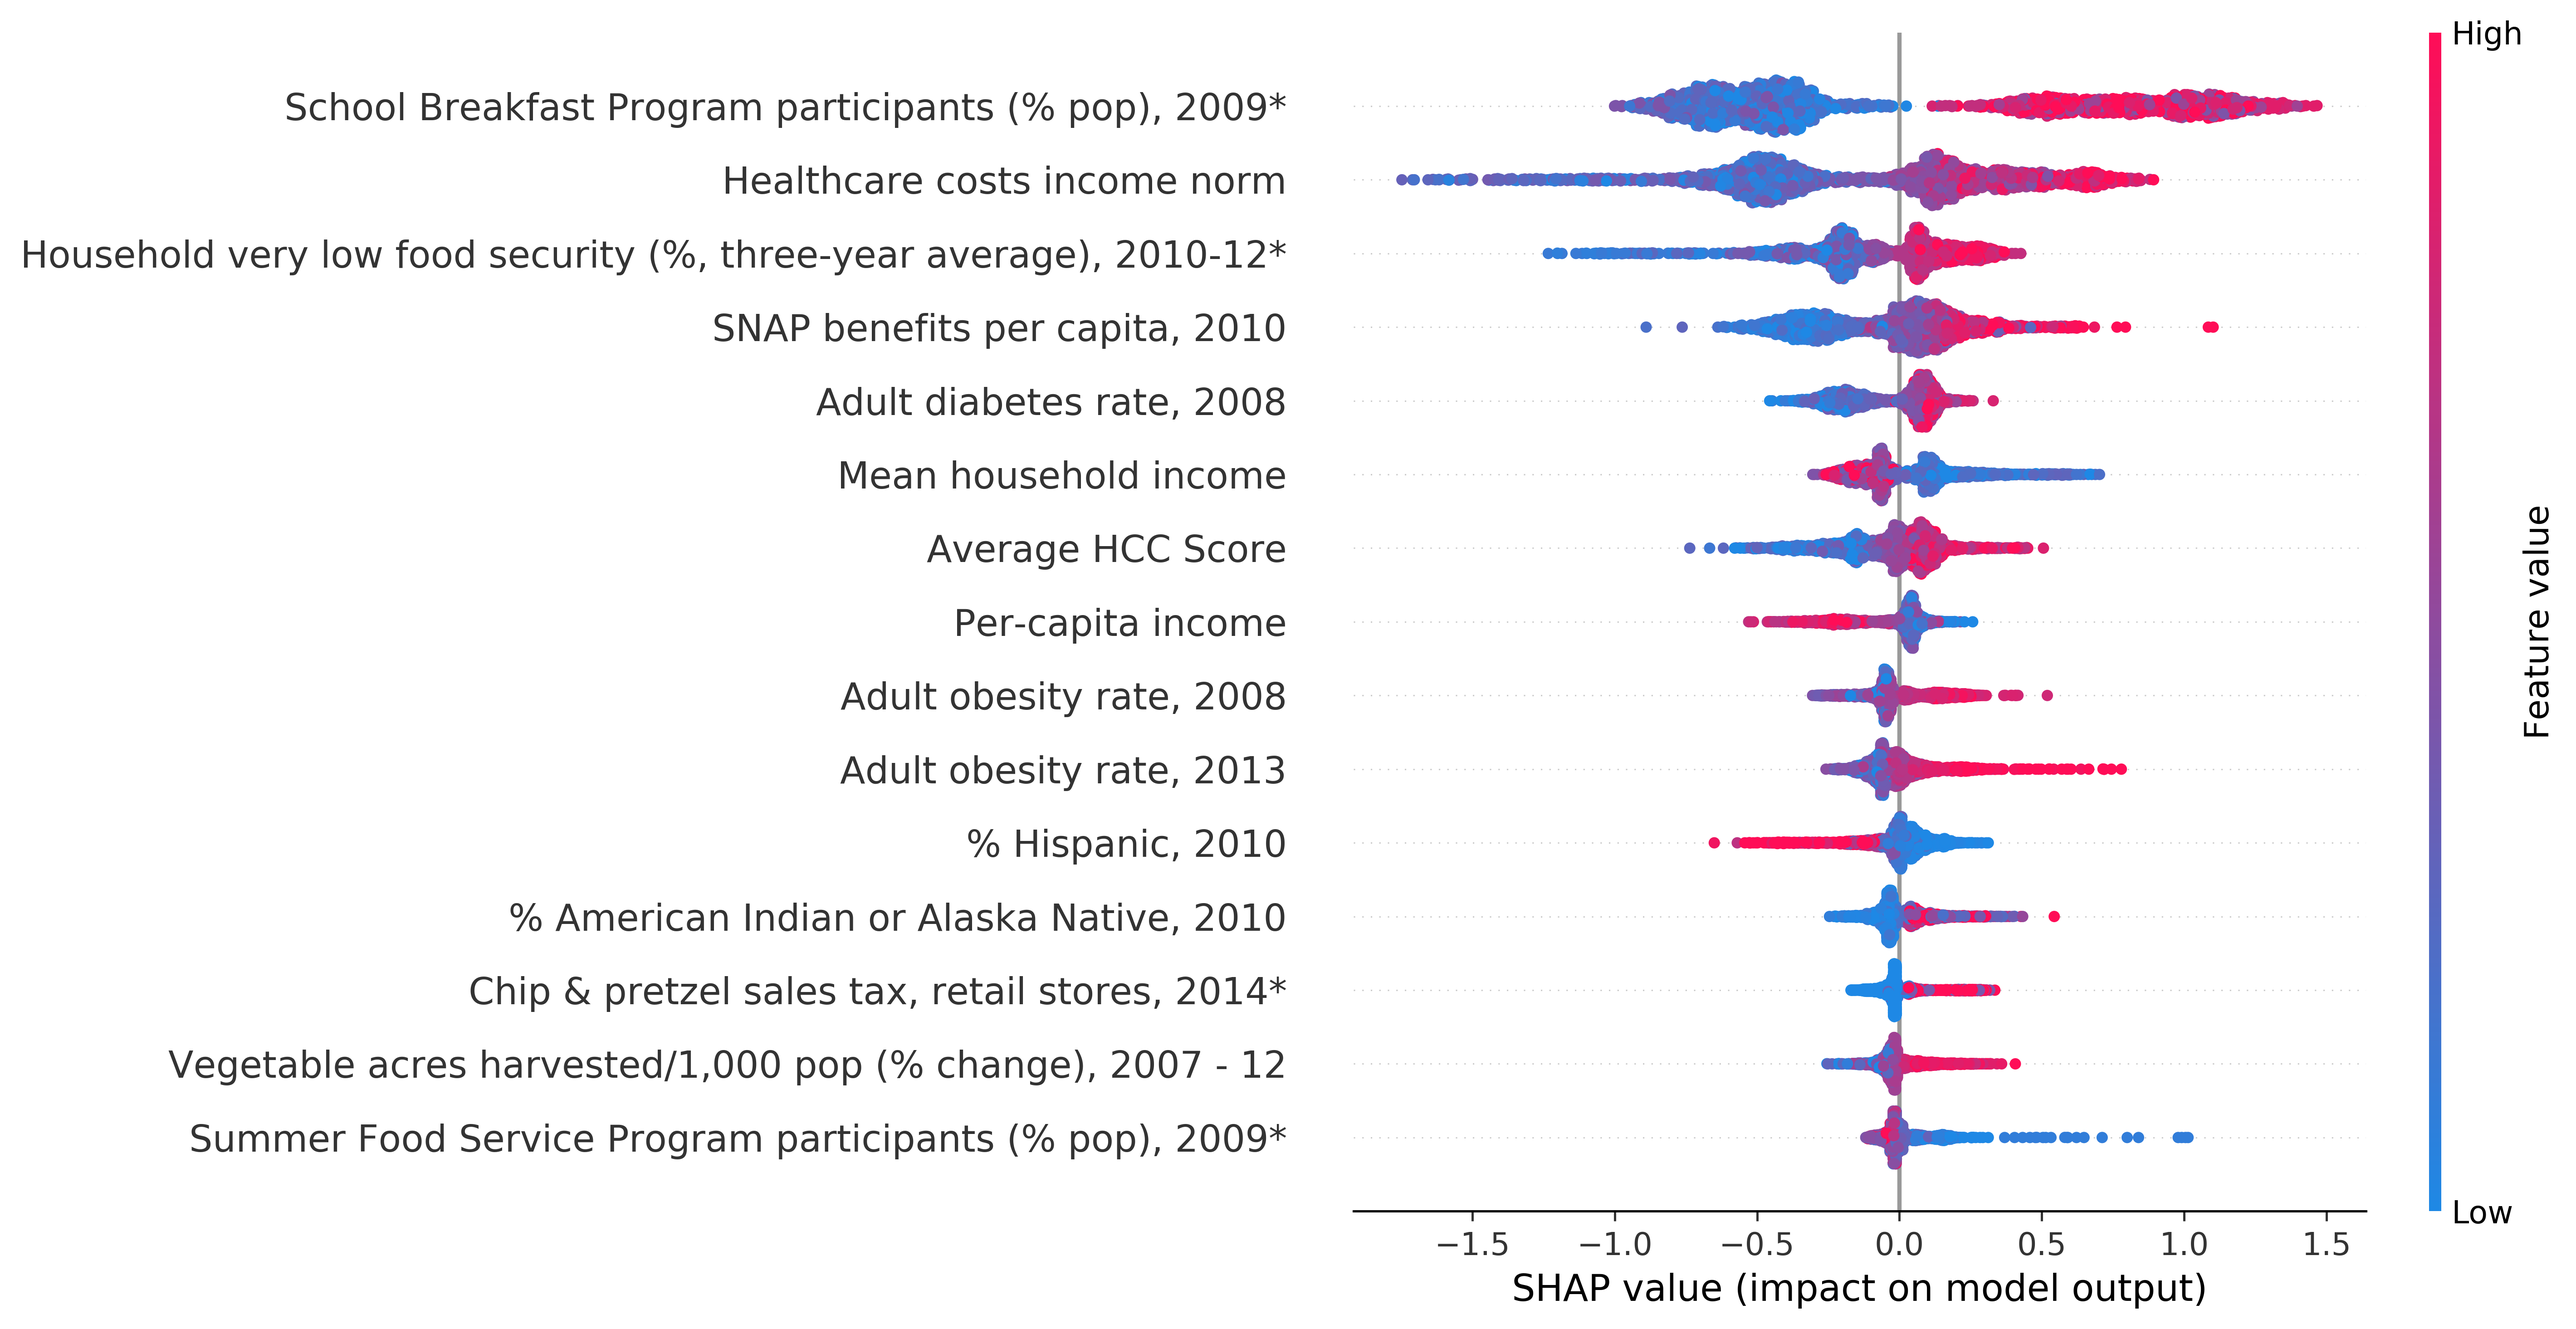
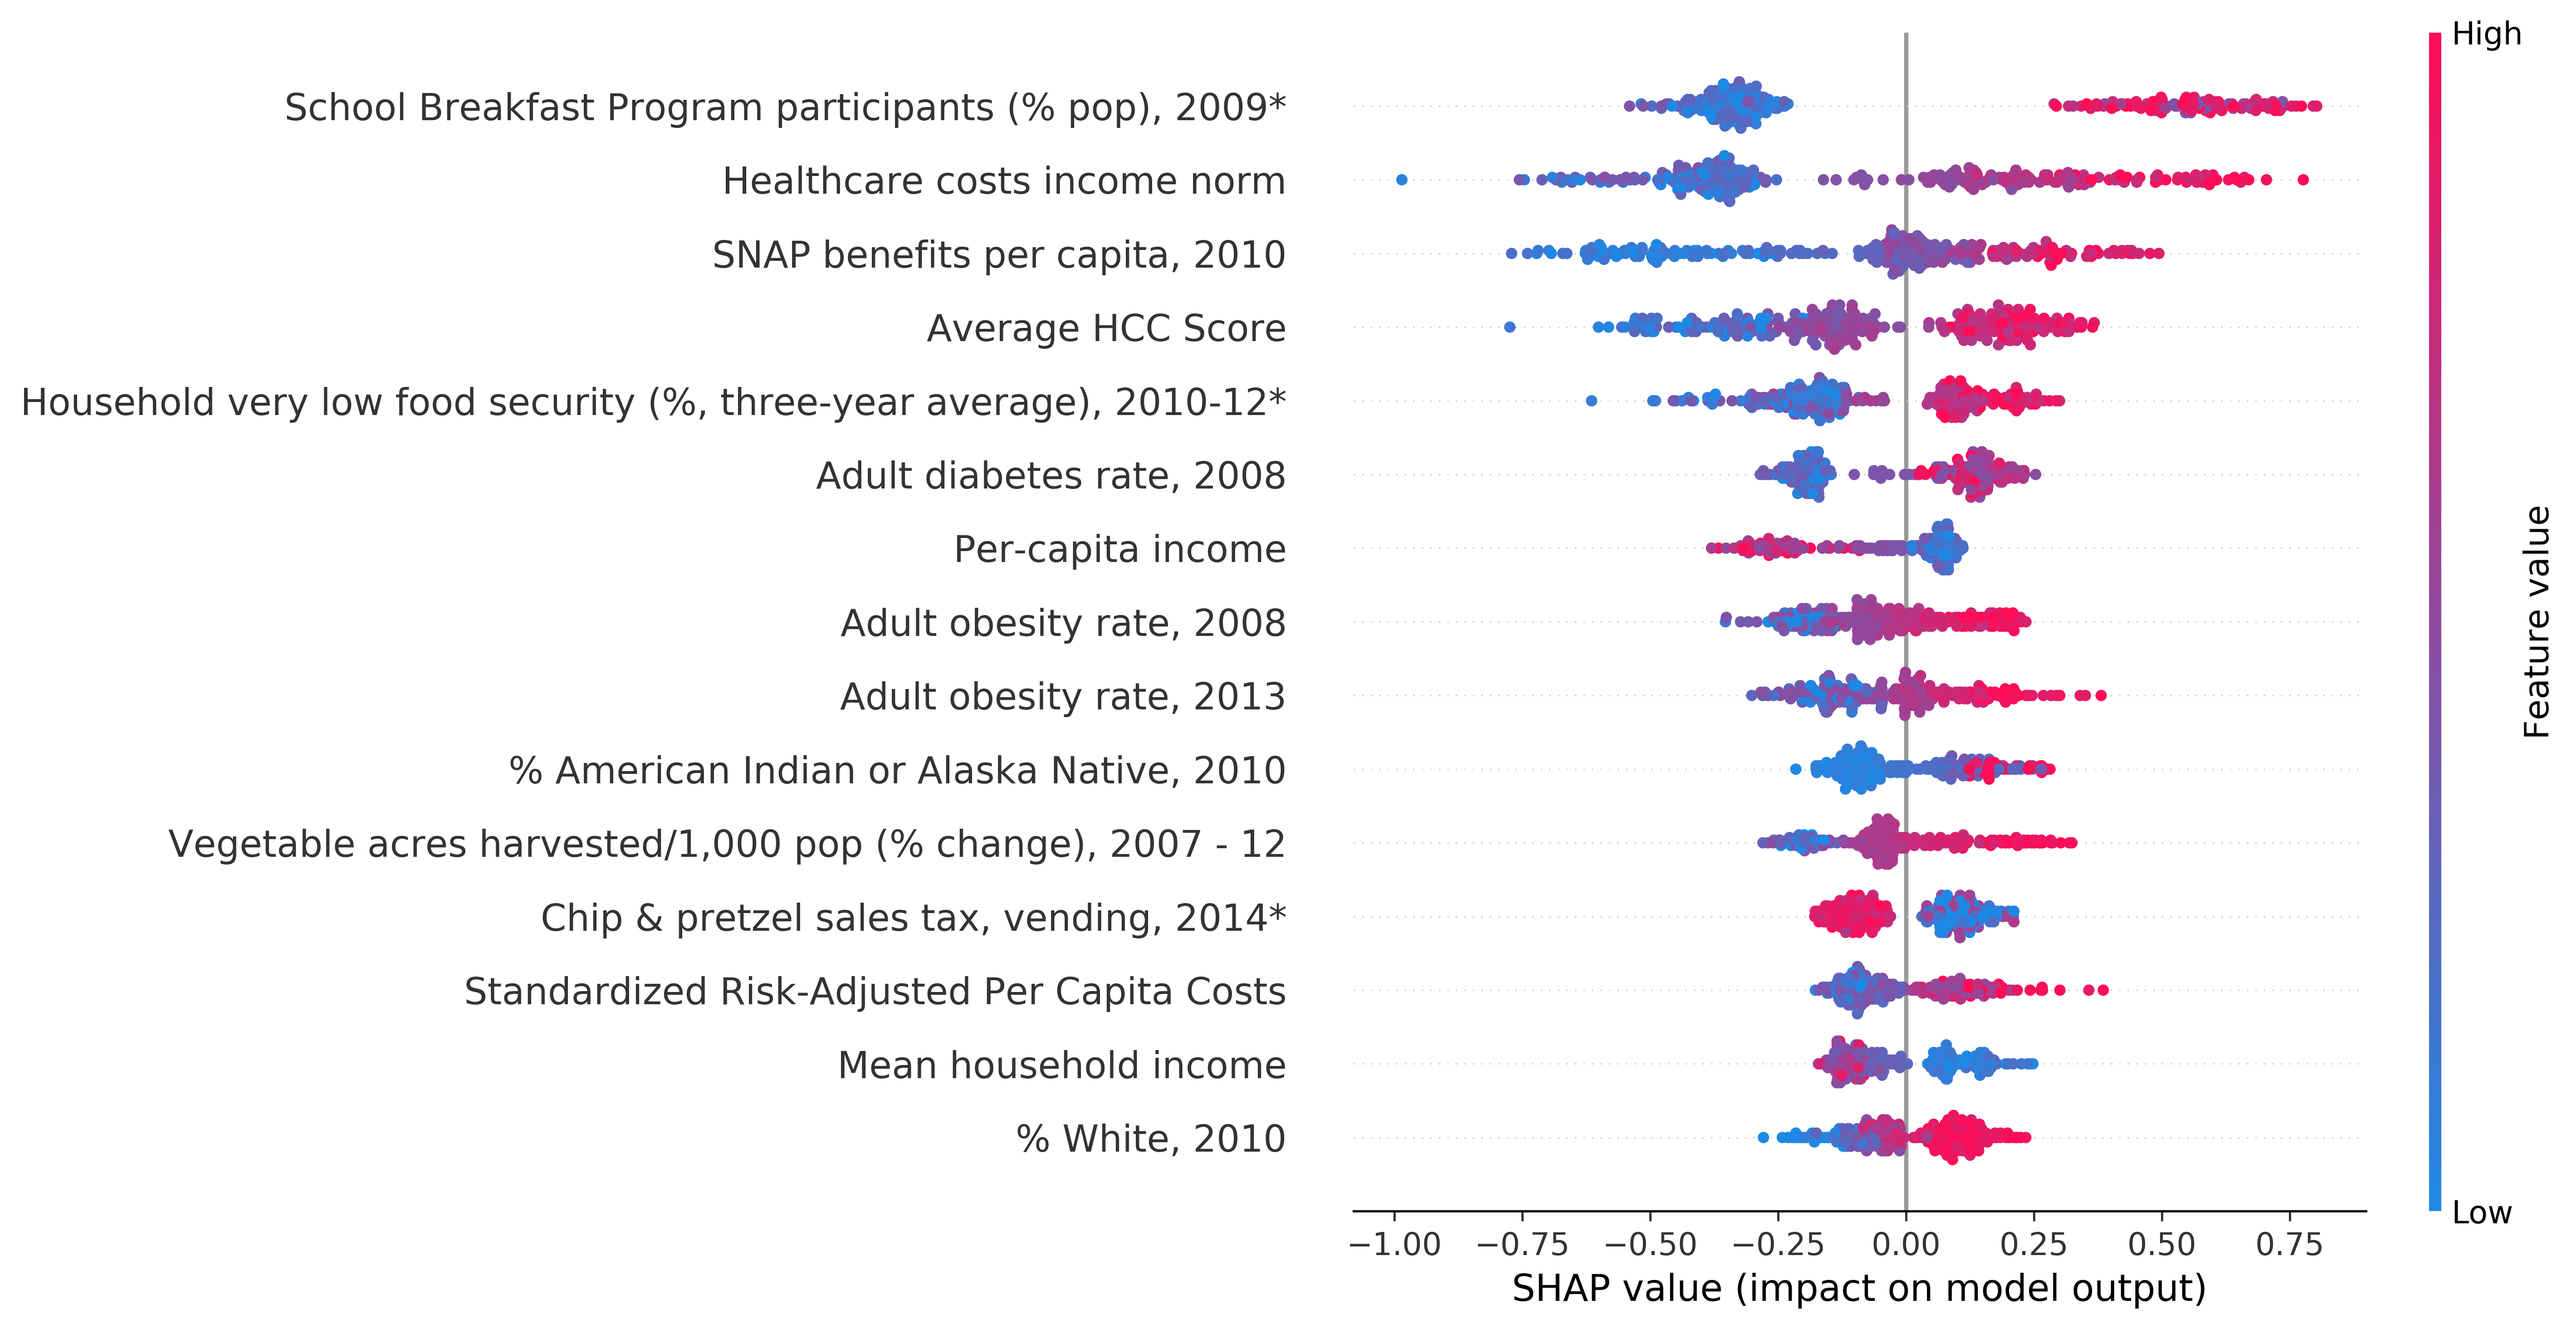
Update boosted tree plot

diff --git a/heartbreaker/model_boosted_tree.py b/heartbreaker/model_boosted_tree.py
@@ -182,16 +182,20 @@ def feature_importance(percentile=25):
     data = util.impute_by_col(data_loader.load_all_data(), np.mean)
     rates = data.pop('heart_disease_mortality')
     rates_high_low = util.continuous_to_categorical(rates, 100 - percentile)
-    
-    model = xgboost.XGBClassifier(max_depth=8, learning_rate=1e-2, n_estimators=350, reg_alpha=1, random_state=8292)  # 6 and 250 for depth and n_estimators were found via parameter sweep
+
+    x_train, x_test, y_train, y_test = train_test_split(data, rates_high_low, test_size=0.10, random_state=seed)
+
+    weights = class_weight.compute_class_weight('balanced', [0, 1], y_train)
+    weight_ratio = weights[1] / weights[0]
+    model = xgboost.XGBClassifier(booster='gbtree', lr=0.1, max_depth=6, min_child_weight=1, n_estimators=150, reg_alpha=10, reg_lambda=0, random_state=8292)  # 6 and 250 for depth and n_estimators were found via parameter sweep
     model.fit(data, rates_high_low)
 
-    plotting.plot_shap_tree_summary(model, data, data, output_fname=os.path.join(plotting.PLOTS_DIR, "shap_xgboost_importance.png"))
+    plotting.plot_shap_tree_summary(model, x_train, x_test, output_fname=os.path.join(plotting.PLOTS_DIR, "shap_xgboost_importance.png"))
 
 if __name__ == "__main__":
     logging.basicConfig(level=logging.INFO)
     # parameter_sweep()
-    # feature_importance()
     # parameter_sweep_pipeline()
     eval_on_train_set()
     eval_on_test_set()
+    feature_importance()
